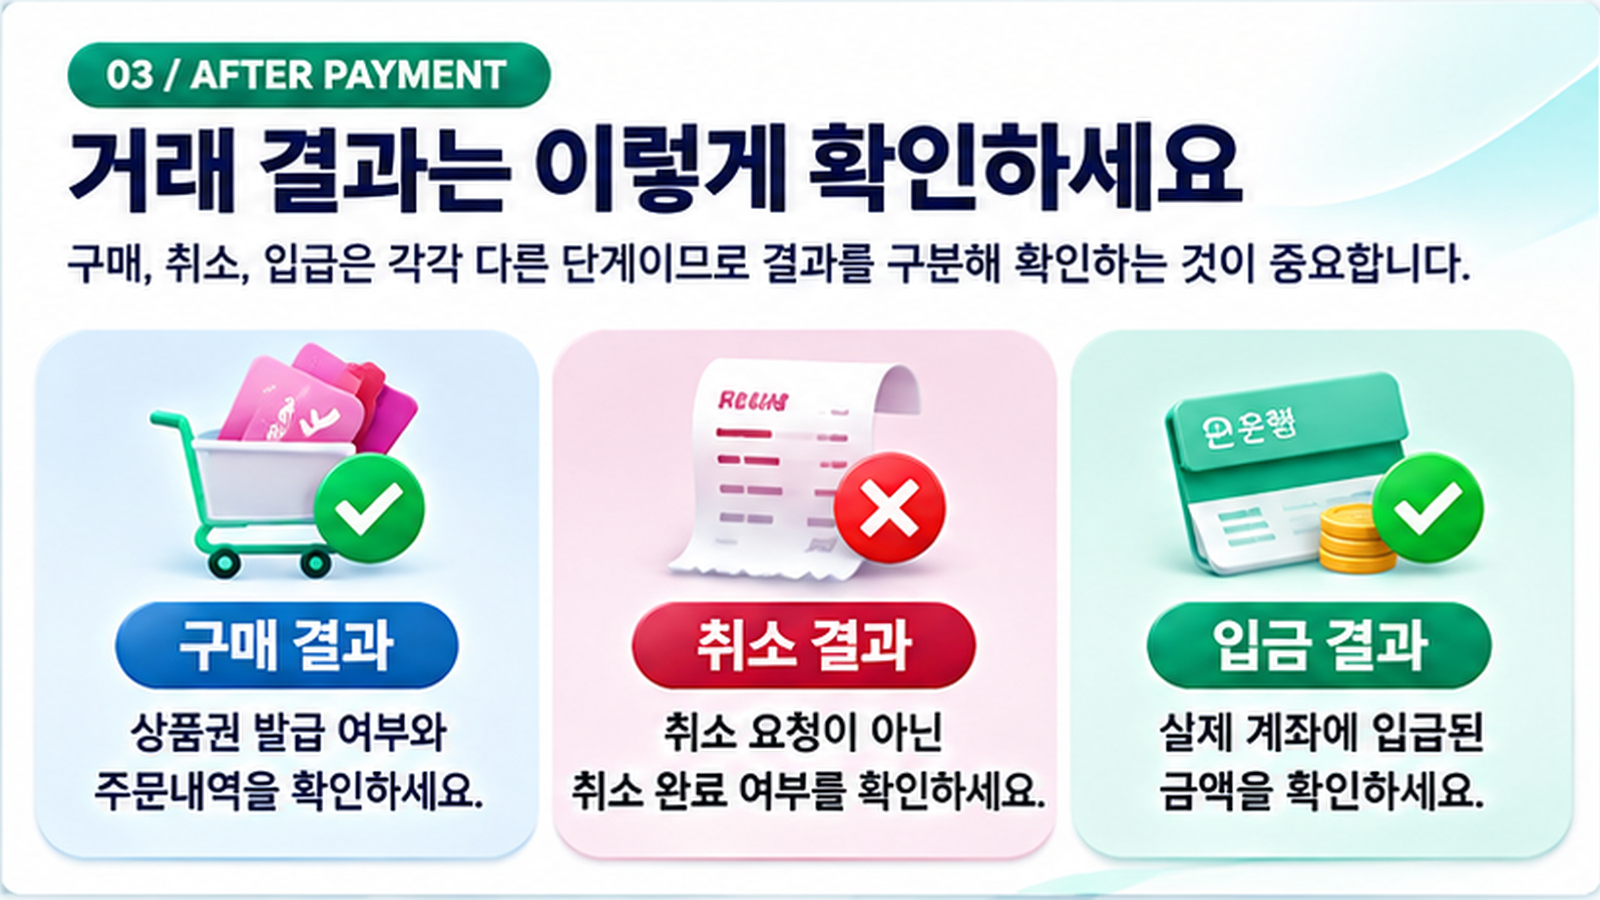
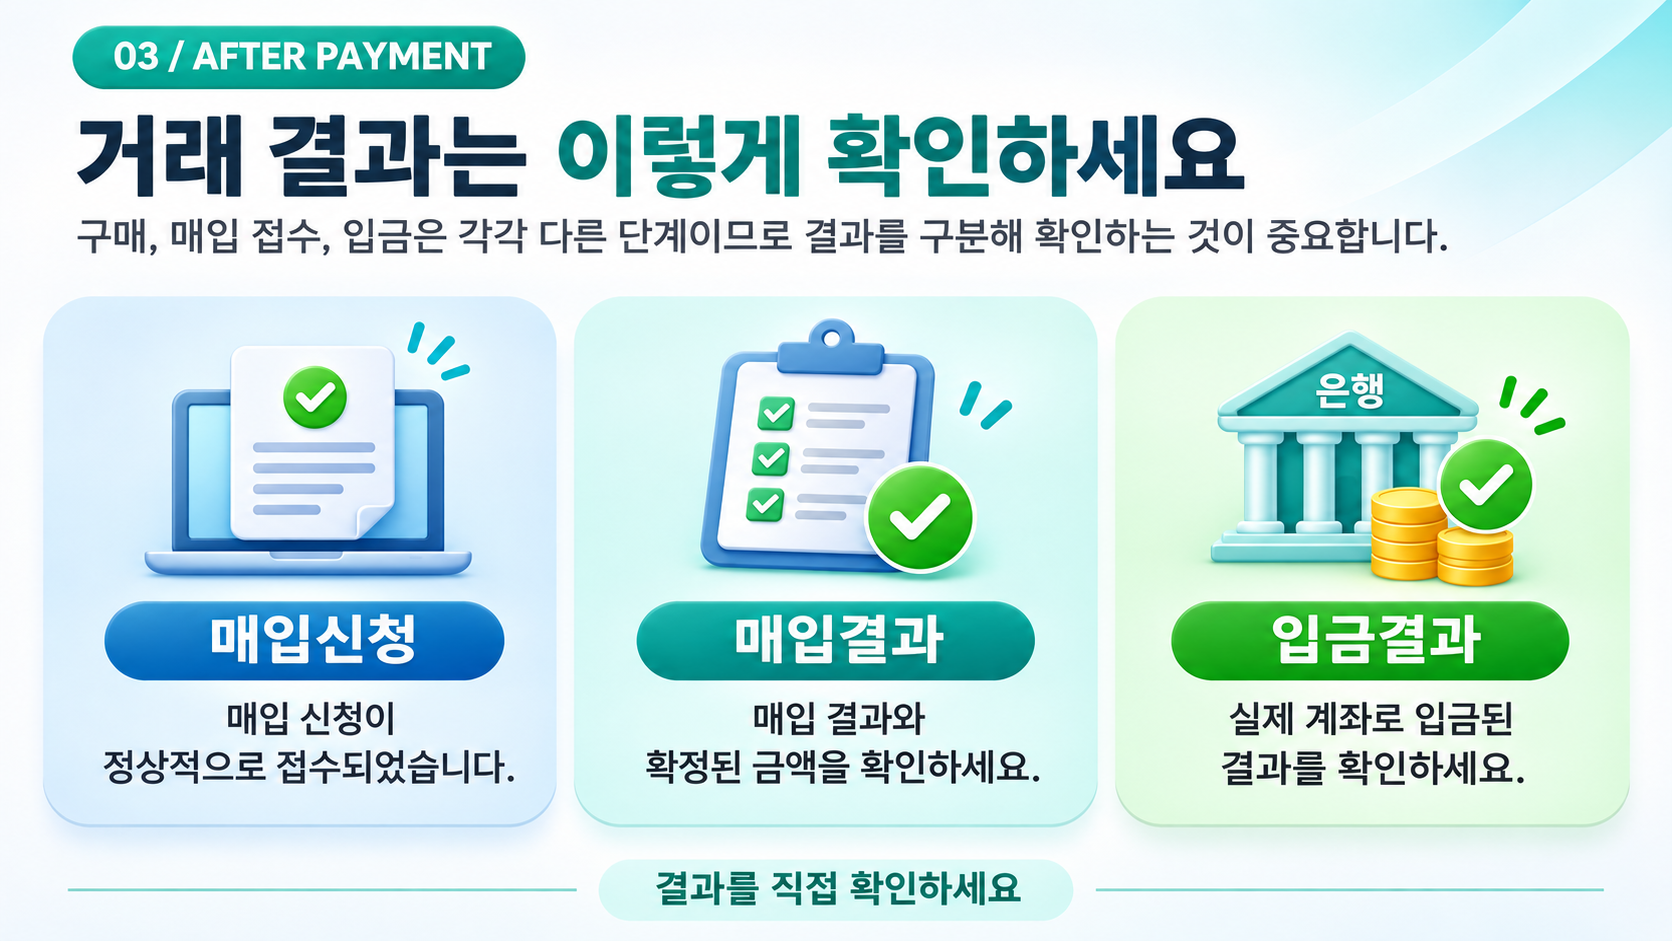
Restore guide illustration with updated buyback stages

diff --git a/public/guide.html b/public/guide.html
@@ -133,6 +133,10 @@
       <p>소액티켓에서 상품권 매입 서비스를 이용할 때는 <strong>매입 신청, 매입 결과, 입금 결과</strong>를 각각 구분해서 확인하는 것이 중요합니다. 고객이 상품권 매입을 신청했다고 해서 모든 거래가 즉시 완료되는 것은 아니며, 접수된 상품권의 상태와 매입 가능 여부를 확인한 후 실제 거래가 진행됩니다.</p>
       <p>휴대폰 소액결제나 신용카드로 상품권을 구매하셨다면 먼저 상품권이 정상적으로 발급되었는지 확인해 주세요. 이후 소액티켓에 매입을 신청하고, 매입 확인을 거쳐 확정된 금액이 본인 계좌에 입금되었는지 확인하면 거래 진행 과정을 정확하게 이해할 수 있습니다.</p>
       <p>소액티켓에서는 고객이 보유한 상품권의 종류와 상태를 확인하여 매입을 진행하고 있습니다. 매입 신청부터 거래 완료, 입금까지 각 단계에서 확인해야 할 사항을 미리 알아두시면 더욱 편리하게 서비스를 이용하실 수 있습니다.</p>
+      <button class="guide-visual" type="button" aria-haspopup="dialog" aria-label="매입 신청, 매입 결과, 입금 결과 확인 이미지 확대 보기">
+        <img src="/images/guide/03-after-payment.png" width="1672" height="941" alt="매입 신청, 매입 결과, 입금 결과 확인" loading="lazy" decoding="async">
+        <span>이미지 확대 보기</span>
+      </button>
       <h3>1. 상품권 매입 신청 및 접수 확인</h3>
       <p>소액티켓에서 상품권 매입을 진행하려면 먼저 보유하고 있는 상품권이 매입 가능한 품목인지 확인해야 합니다. 컬쳐랜드, 도서문화상품권, 백화점상품권 등 취급 상품권의 종류에 따라 매입 조건이 달라질 수 있으며, 실제 적용 매입률은 거래 전에 확인하는 것이 좋습니다.</p>
       <p>상품권 매입 신청 시에는 상품권 종류와 권종, 수량, PIN 번호 또는 상품권 확인에 필요한 정보 등을 정확하게 입력해야 합니다. 잘못된 상품권 정보가 접수되면 정상적인 확인이 어려울 수 있으므로 신청 전 입력 내용을 한 번 더 살펴봐 주세요.</p>
